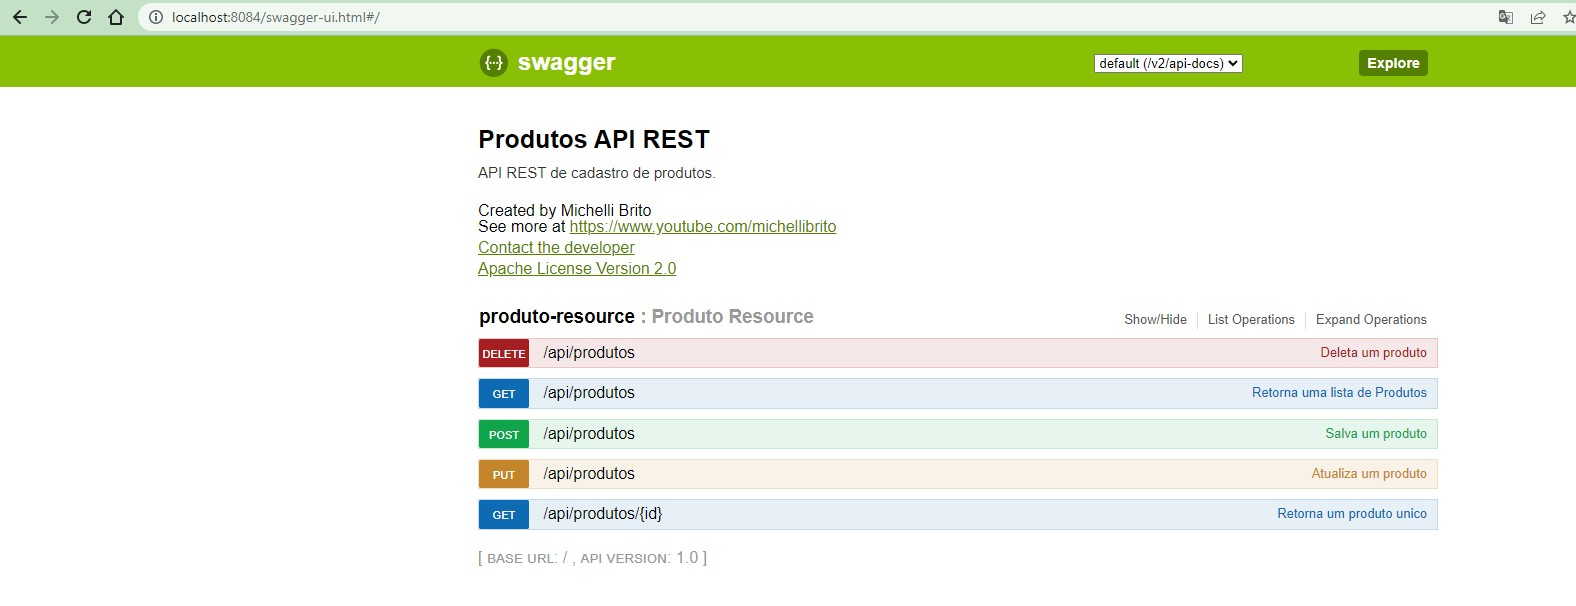
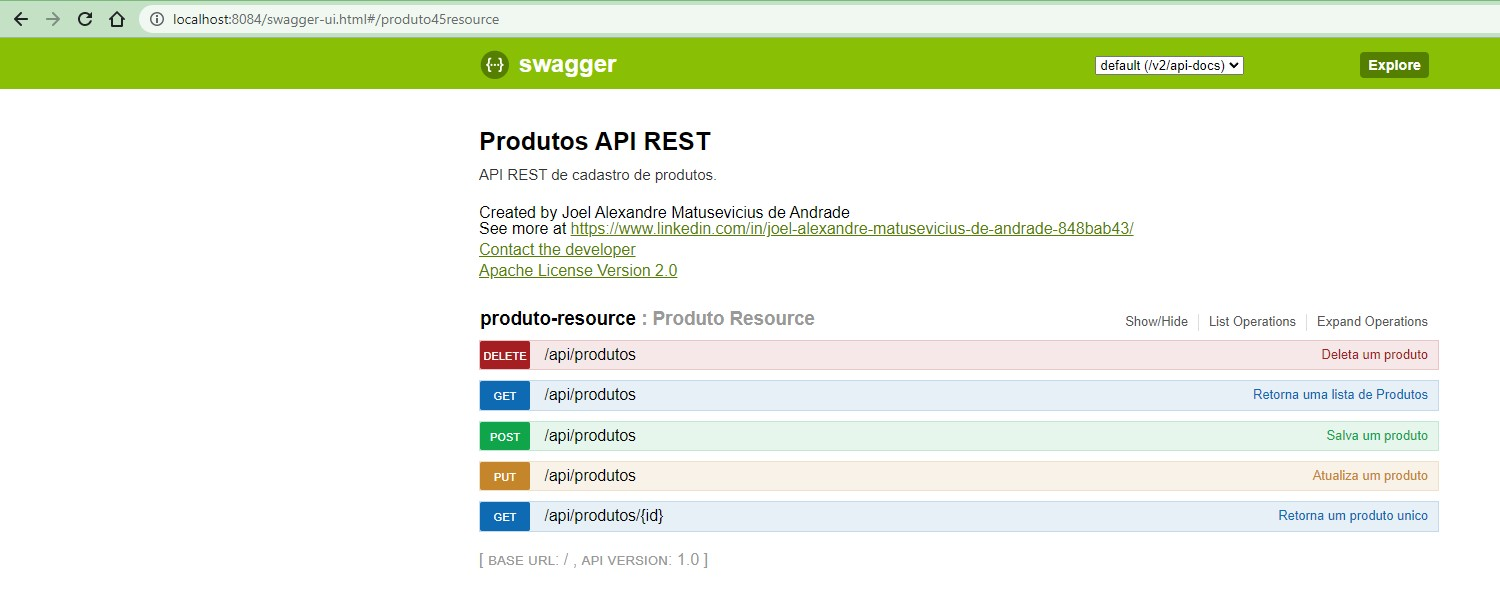
Atualizdo imagem do Swagger.jpg, pom.xml com minhas informações, SwaggerConfig com minhas informações

diff --git a/apirest/src/main/java/com/produtos/apirest/config/SwaggerConfig.java b/apirest/src/main/java/com/produtos/apirest/config/SwaggerConfig.java
@@ -38,8 +38,8 @@ public class SwaggerConfig {
                 "API REST de cadastro de produtos.",
                 "1.0",
                 "Terms of Service",
-                new Contact("Michelli Brito", "https://www.youtube.com/michellibrito",
-                        "michellidibrito@gmail.com"),
+                new Contact("Joel Alexandre Matusevicius de Andrade", "https://www.linkedin.com/in/joel-alexandre-matusevicius-de-andrade-848bab43/",
+                        "joelguarulhos@gmail.com"),
                 "Apache License Version 2.0",
                 "https://www.apache.org/licesen.html", new ArrayList<VendorExtension>()
         );
